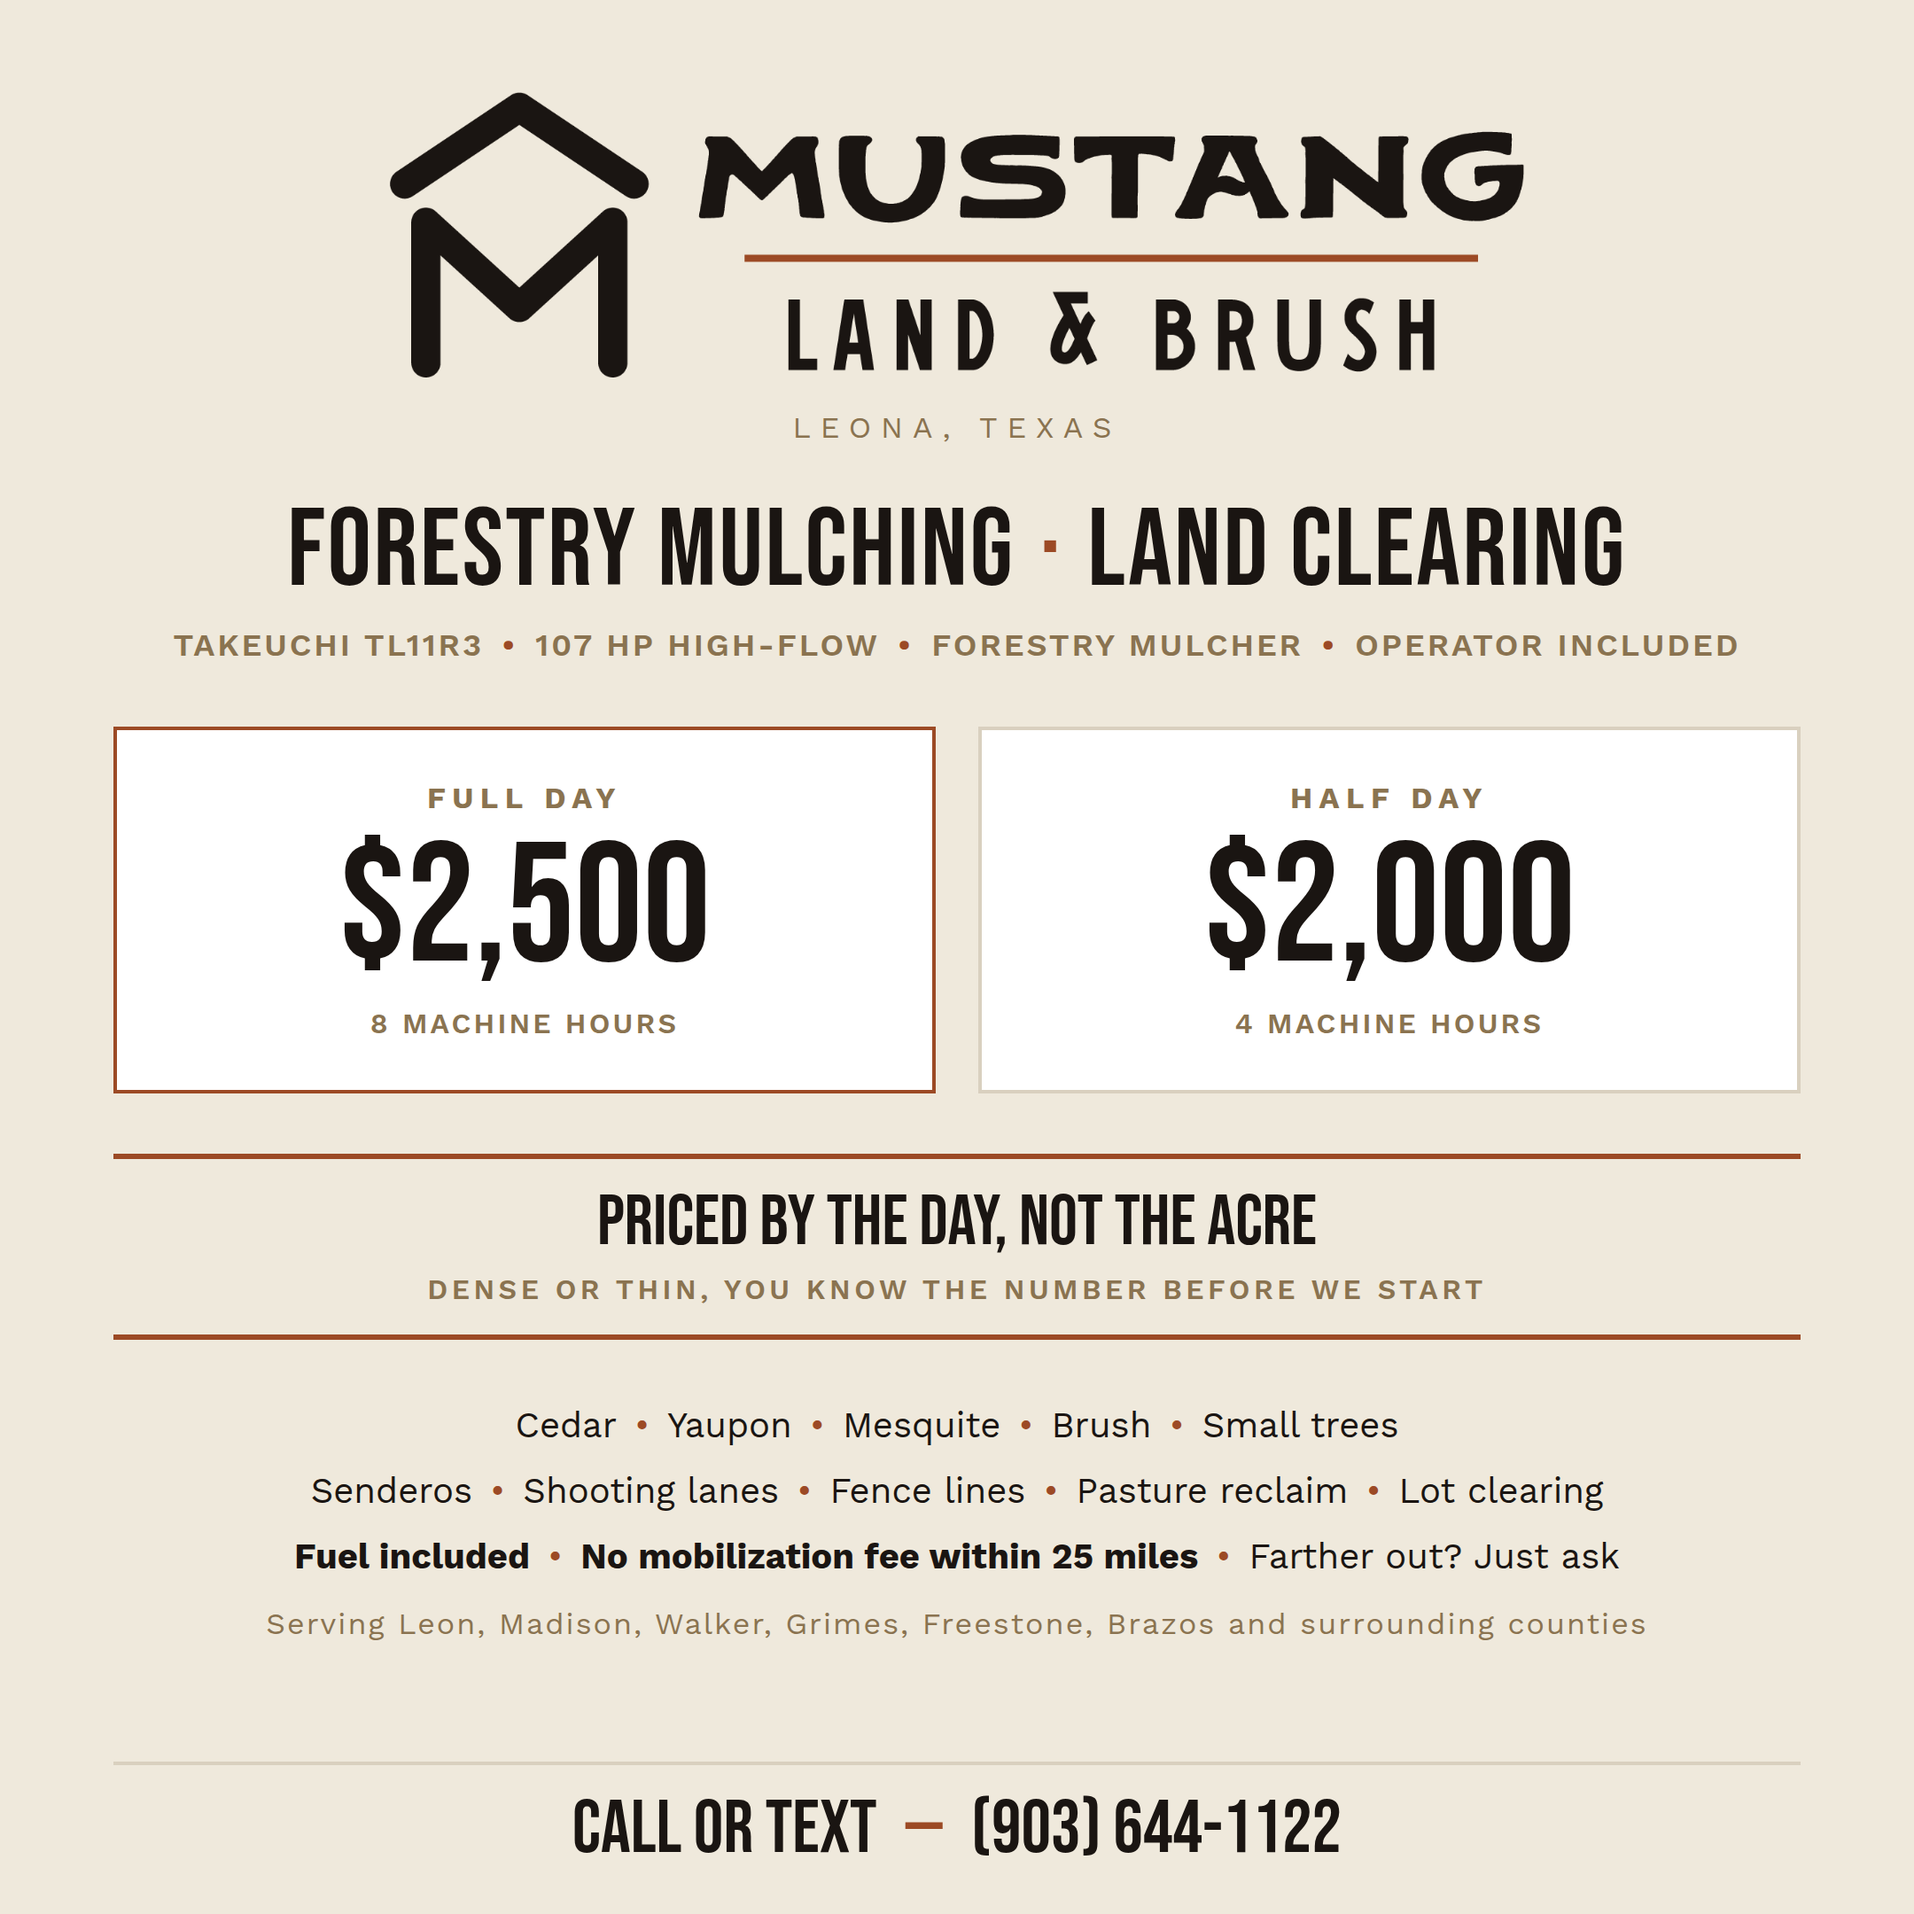
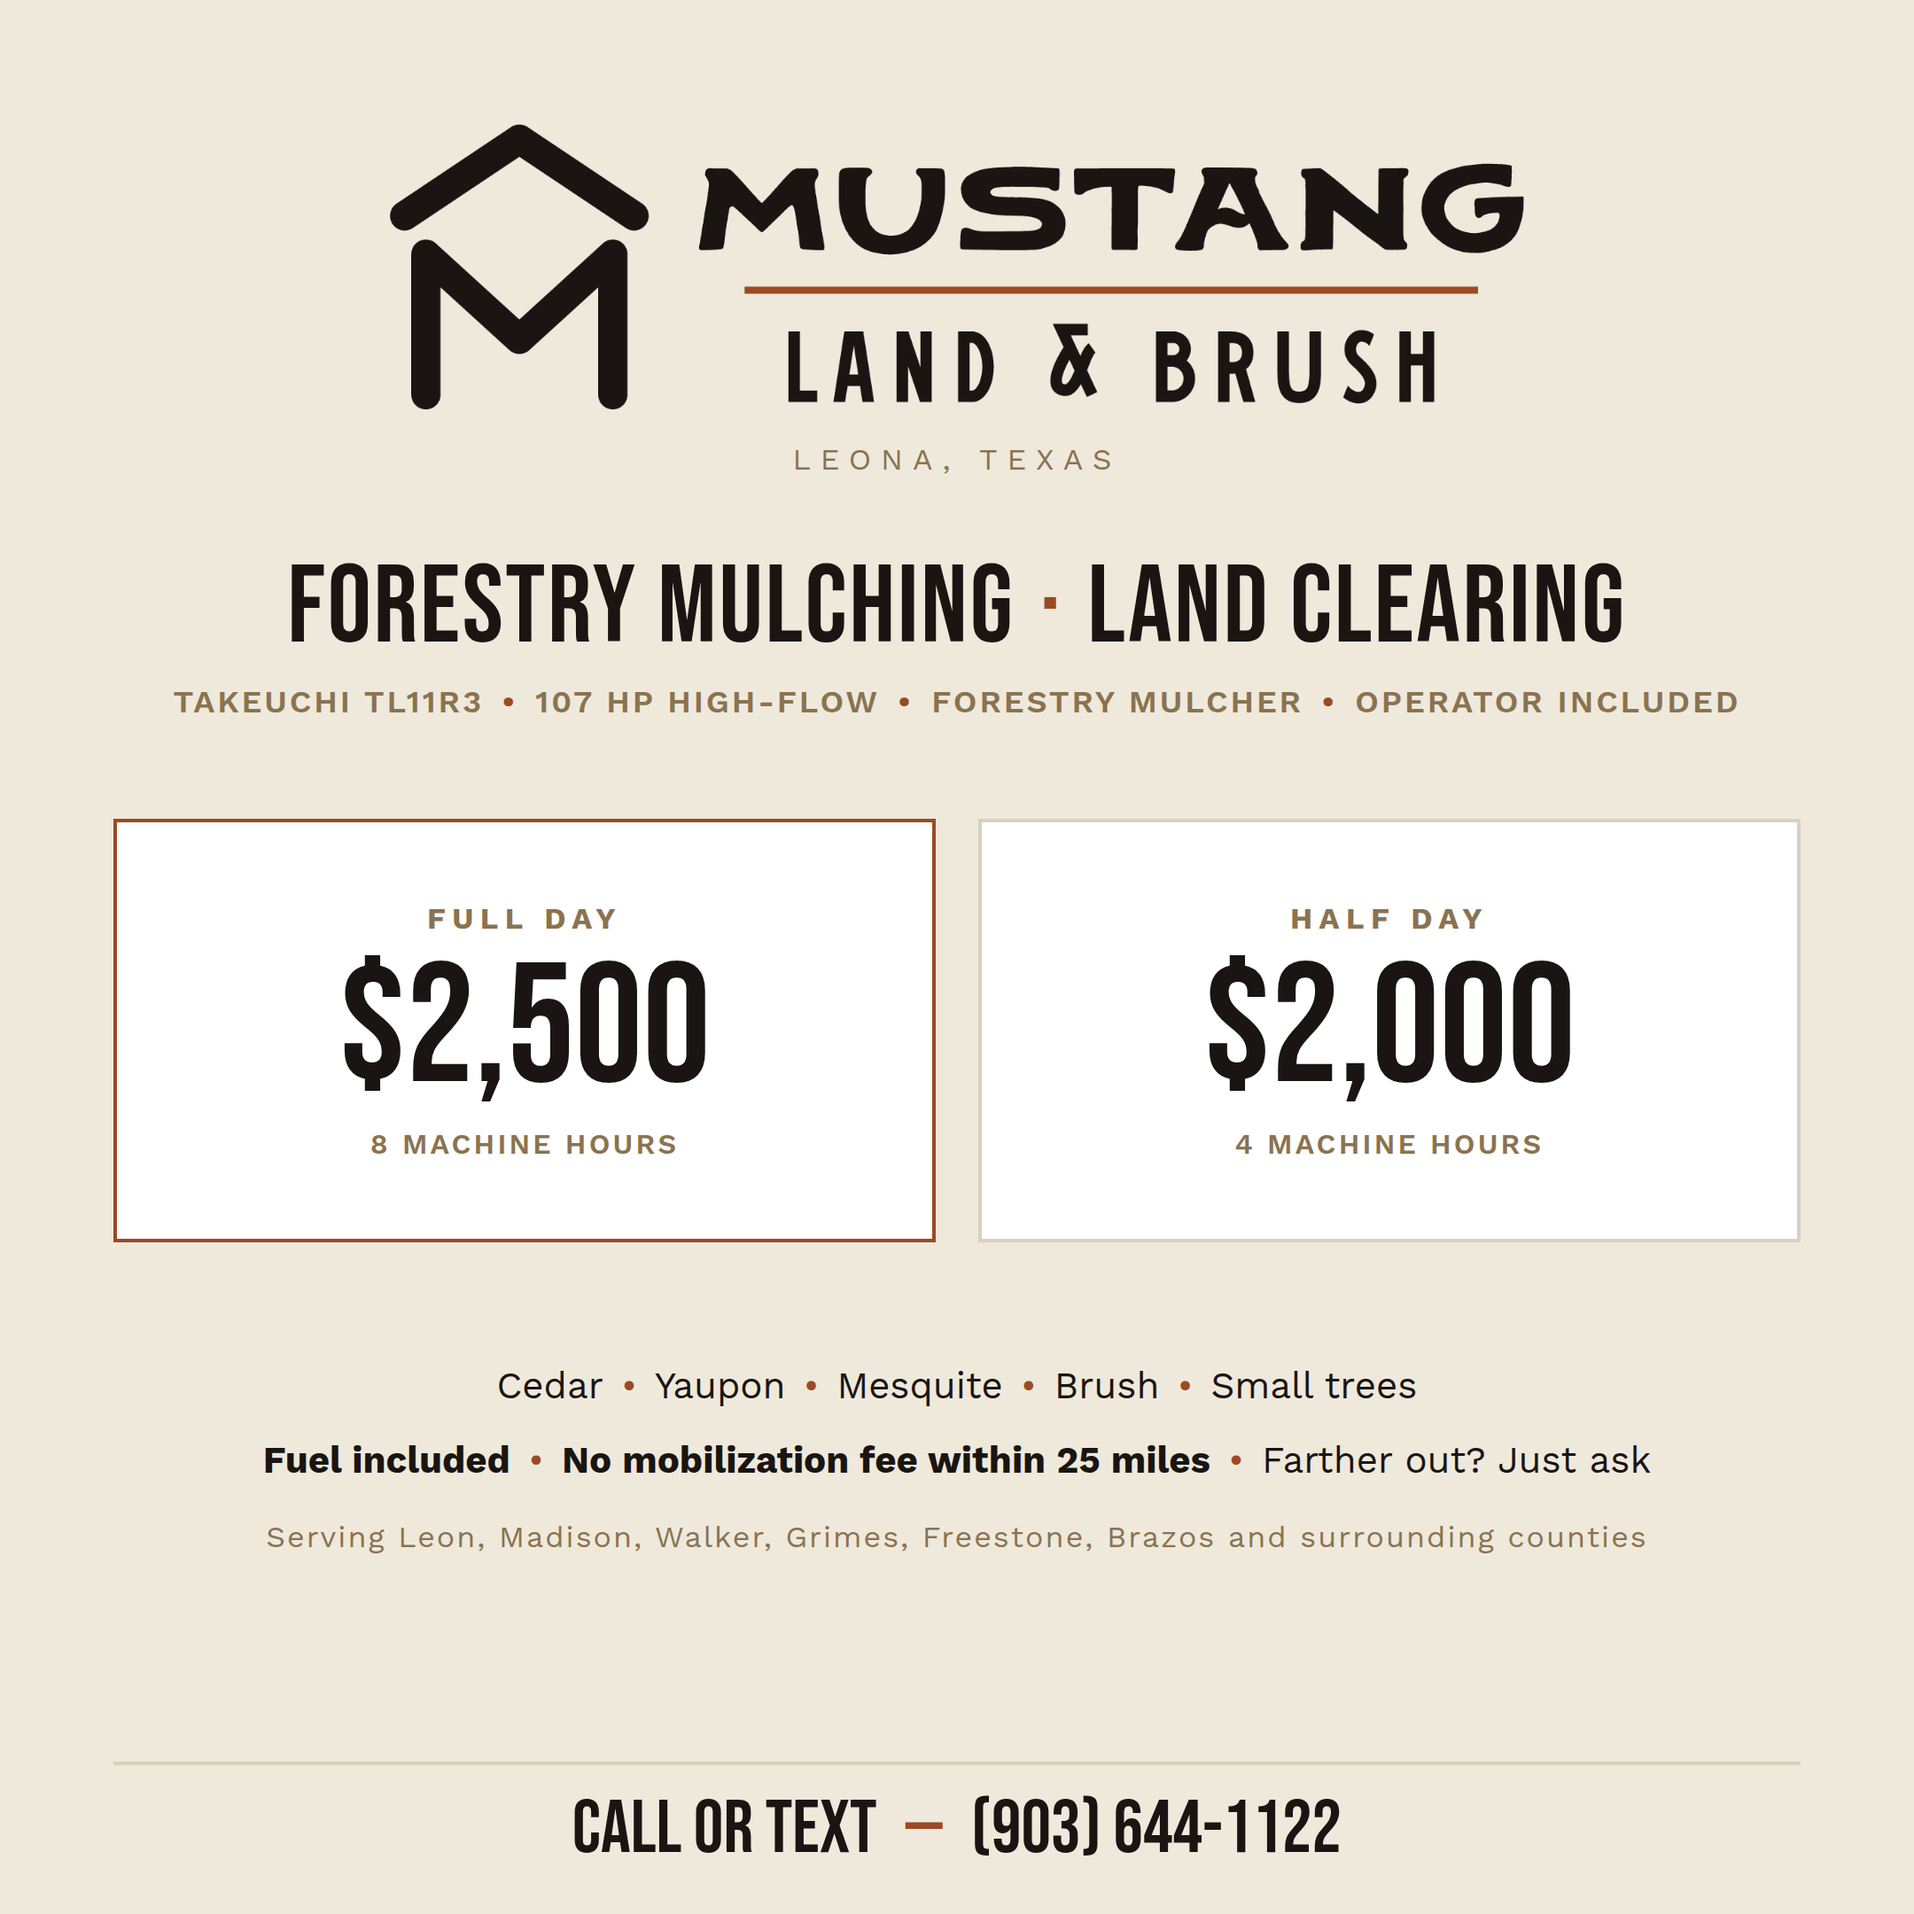
Mustang cards: trim copy to prices and terms
Claude-Session: https://claude.ai/code/session_01MjBdAn1tqXy1S9X7E6qMHj

diff --git a/marketing/mustang/mustang-card.html b/marketing/mustang/mustang-card.html
@@ -5,16 +5,16 @@
 html,body{width:1080px;height:1080px;background:var(--bg);color:var(--bone);font-family:"Work Sans",Arial,sans-serif;-webkit-font-smoothing:antialiased}
 .bebas{font-family:"Bebas Neue","Arial Narrow",Impact,sans-serif;font-weight:400}
 .card{width:1080px;height:1080px;padding:0 64px;display:flex;flex-direction:column}
-.brand{text-align:center;padding-top:52px}
+.brand{text-align:center;padding-top:70px}
 .brand img{width:640px;height:auto;display:block;margin:0 auto}
 .brand .loc{margin-top:18px;font-size:17px;letter-spacing:.32em;color:var(--tan);text-transform:uppercase}
-.svc{text-align:center;margin-top:30px}
+.svc{text-align:center;margin-top:44px}
 .svc h2{font-size:62px;line-height:1;color:var(--bone);letter-spacing:.02em}
 .svc h2 span{color:var(--rust);padding:0 14px}
 .svc .specs{margin-top:10px;font-size:18px;font-weight:600;letter-spacing:.08em;text-transform:uppercase;color:var(--tan)}
 .svc .specs span{color:var(--rust);padding:0 10px}
-.rates{display:flex;gap:24px;margin-top:36px}
-.rate{flex:1;background:#FFFFFF;border:2px solid var(--rule);padding:28px 28px;text-align:center}
+.rates{display:flex;gap:24px;margin-top:56px}
+.rate{flex:1;background:#FFFFFF;border:2px solid var(--rule);padding:44px 28px;text-align:center}
 .rate.main{border-color:var(--rust)}
 .rate .lbl{font-size:17px;font-weight:700;letter-spacing:.22em;text-transform:uppercase;color:var(--tan)}
 .rate .amt{font-family:"Bebas Neue","Arial Narrow",Impact,sans-serif;font-size:96px;line-height:1;margin-top:6px;color:var(--bone)}
@@ -22,7 +22,7 @@ html,body{width:1080px;height:1080px;background:var(--bg);color:var(--bone);font
 .line{margin-top:34px;text-align:center;border-top:3px solid var(--rust);border-bottom:3px solid var(--rust);padding:16px 0}
 .line .big{font-size:40px;line-height:1;color:var(--bone)}
 .line .small{font-size:16px;font-weight:600;letter-spacing:.14em;text-transform:uppercase;margin-top:8px;color:var(--tan)}
-.terms{margin-top:30px;text-align:center;font-size:20px;line-height:1.85;color:var(--bone)}
+.terms{margin-top:60px;text-align:center;font-size:21px;line-height:2;color:var(--bone)}
 .terms .dot{color:var(--rust);padding:0 10px}
 .terms b{font-weight:700}
 .terms .muted{color:var(--tan);font-size:17px;letter-spacing:.06em}
@@ -39,14 +39,9 @@ html,body{width:1080px;height:1080px;background:var(--bg);color:var(--bone);font
     <div class="rate main"><div class="lbl">Full day</div><div class="amt bebas">$2,500</div><div class="sub">8 machine hours</div></div>
     <div class="rate"><div class="lbl">Half day</div><div class="amt bebas">$2,000</div><div class="sub">4 machine hours</div></div>
   </div>
-  <div class="line">
-    <div class="big bebas">PRICED BY THE DAY, NOT THE ACRE</div>
-    <div class="small">Dense or thin, you know the number before we start</div>
-  </div>
   <div class="terms">
     Cedar<span class="dot">•</span>Yaupon<span class="dot">•</span>Mesquite<span class="dot">•</span>Brush<span class="dot">•</span>Small trees<br>
-    Senderos<span class="dot">•</span>Shooting lanes<span class="dot">•</span>Fence lines<span class="dot">•</span>Pasture reclaim<span class="dot">•</span>Lot clearing<br>
-    <b>Fuel included</b><span class="dot">•</span><b>No mobilization fee within 25 miles</b><span class="dot">•</span>Farther out? Just ask<br>
+        <b>Fuel included</b><span class="dot">•</span><b>No mobilization fee within 25 miles</b><span class="dot">•</span>Farther out? Just ask<br>
     <span class="muted">Serving Leon, Madison, Walker, Grimes, Freestone, Brazos and surrounding counties</span>
   </div>
   <div class="cta bebas">MESSAGE WITH YOUR DATES<span class="sep">—</span>FAST QUOTE</div>

diff --git a/marketing/mustang/mustang-card-phone.html b/marketing/mustang/mustang-card-phone.html
@@ -5,16 +5,16 @@
 html,body{width:1080px;height:1080px;background:var(--bg);color:var(--bone);font-family:"Work Sans",Arial,sans-serif;-webkit-font-smoothing:antialiased}
 .bebas{font-family:"Bebas Neue","Arial Narrow",Impact,sans-serif;font-weight:400}
 .card{width:1080px;height:1080px;padding:0 64px;display:flex;flex-direction:column}
-.brand{text-align:center;padding-top:52px}
+.brand{text-align:center;padding-top:70px}
 .brand img{width:640px;height:auto;display:block;margin:0 auto}
 .brand .loc{margin-top:18px;font-size:17px;letter-spacing:.32em;color:var(--tan);text-transform:uppercase}
-.svc{text-align:center;margin-top:30px}
+.svc{text-align:center;margin-top:44px}
 .svc h2{font-size:62px;line-height:1;color:var(--bone);letter-spacing:.02em}
 .svc h2 span{color:var(--rust);padding:0 14px}
 .svc .specs{margin-top:10px;font-size:18px;font-weight:600;letter-spacing:.08em;text-transform:uppercase;color:var(--tan)}
 .svc .specs span{color:var(--rust);padding:0 10px}
-.rates{display:flex;gap:24px;margin-top:36px}
-.rate{flex:1;background:#FFFFFF;border:2px solid var(--rule);padding:28px 28px;text-align:center}
+.rates{display:flex;gap:24px;margin-top:56px}
+.rate{flex:1;background:#FFFFFF;border:2px solid var(--rule);padding:44px 28px;text-align:center}
 .rate.main{border-color:var(--rust)}
 .rate .lbl{font-size:17px;font-weight:700;letter-spacing:.22em;text-transform:uppercase;color:var(--tan)}
 .rate .amt{font-family:"Bebas Neue","Arial Narrow",Impact,sans-serif;font-size:96px;line-height:1;margin-top:6px;color:var(--bone)}
@@ -22,7 +22,7 @@ html,body{width:1080px;height:1080px;background:var(--bg);color:var(--bone);font
 .line{margin-top:34px;text-align:center;border-top:3px solid var(--rust);border-bottom:3px solid var(--rust);padding:16px 0}
 .line .big{font-size:40px;line-height:1;color:var(--bone)}
 .line .small{font-size:16px;font-weight:600;letter-spacing:.14em;text-transform:uppercase;margin-top:8px;color:var(--tan)}
-.terms{margin-top:30px;text-align:center;font-size:20px;line-height:1.85;color:var(--bone)}
+.terms{margin-top:60px;text-align:center;font-size:21px;line-height:2;color:var(--bone)}
 .terms .dot{color:var(--rust);padding:0 10px}
 .terms b{font-weight:700}
 .terms .muted{color:var(--tan);font-size:17px;letter-spacing:.06em}
@@ -39,14 +39,9 @@ html,body{width:1080px;height:1080px;background:var(--bg);color:var(--bone);font
     <div class="rate main"><div class="lbl">Full day</div><div class="amt bebas">$2,500</div><div class="sub">8 machine hours</div></div>
     <div class="rate"><div class="lbl">Half day</div><div class="amt bebas">$2,000</div><div class="sub">4 machine hours</div></div>
   </div>
-  <div class="line">
-    <div class="big bebas">PRICED BY THE DAY, NOT THE ACRE</div>
-    <div class="small">Dense or thin, you know the number before we start</div>
-  </div>
   <div class="terms">
     Cedar<span class="dot">•</span>Yaupon<span class="dot">•</span>Mesquite<span class="dot">•</span>Brush<span class="dot">•</span>Small trees<br>
-    Senderos<span class="dot">•</span>Shooting lanes<span class="dot">•</span>Fence lines<span class="dot">•</span>Pasture reclaim<span class="dot">•</span>Lot clearing<br>
-    <b>Fuel included</b><span class="dot">•</span><b>No mobilization fee within 25 miles</b><span class="dot">•</span>Farther out? Just ask<br>
+        <b>Fuel included</b><span class="dot">•</span><b>No mobilization fee within 25 miles</b><span class="dot">•</span>Farther out? Just ask<br>
     <span class="muted">Serving Leon, Madison, Walker, Grimes, Freestone, Brazos and surrounding counties</span>
   </div>
   <div class="cta bebas">CALL OR TEXT<span class="sep">—</span>(903) 644-1122</div>
